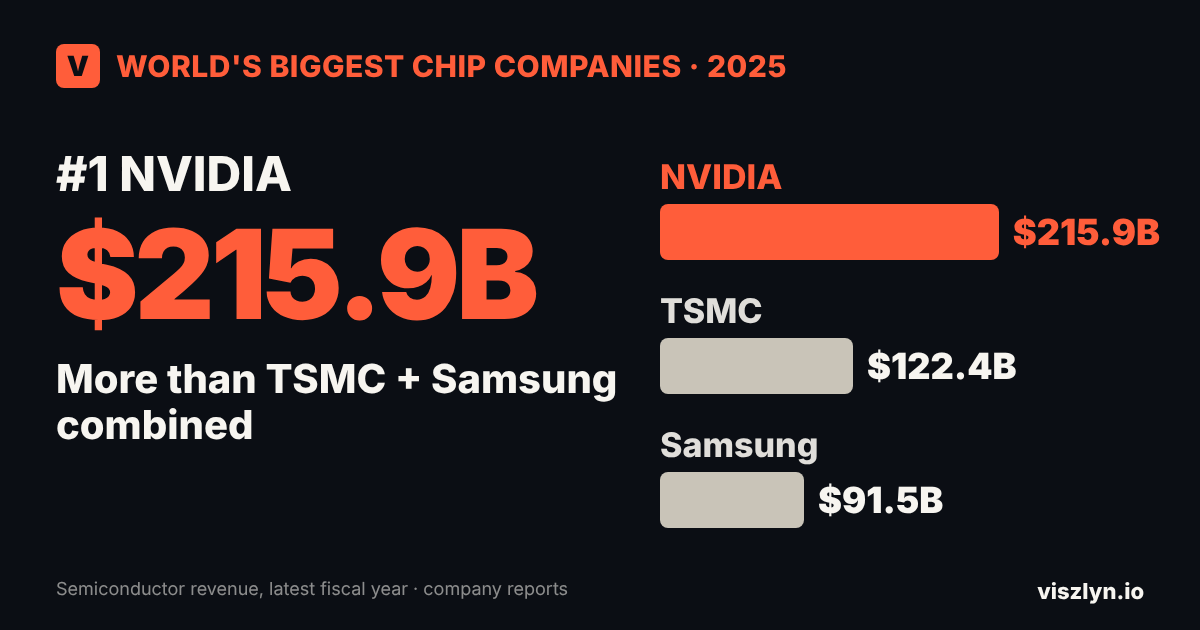
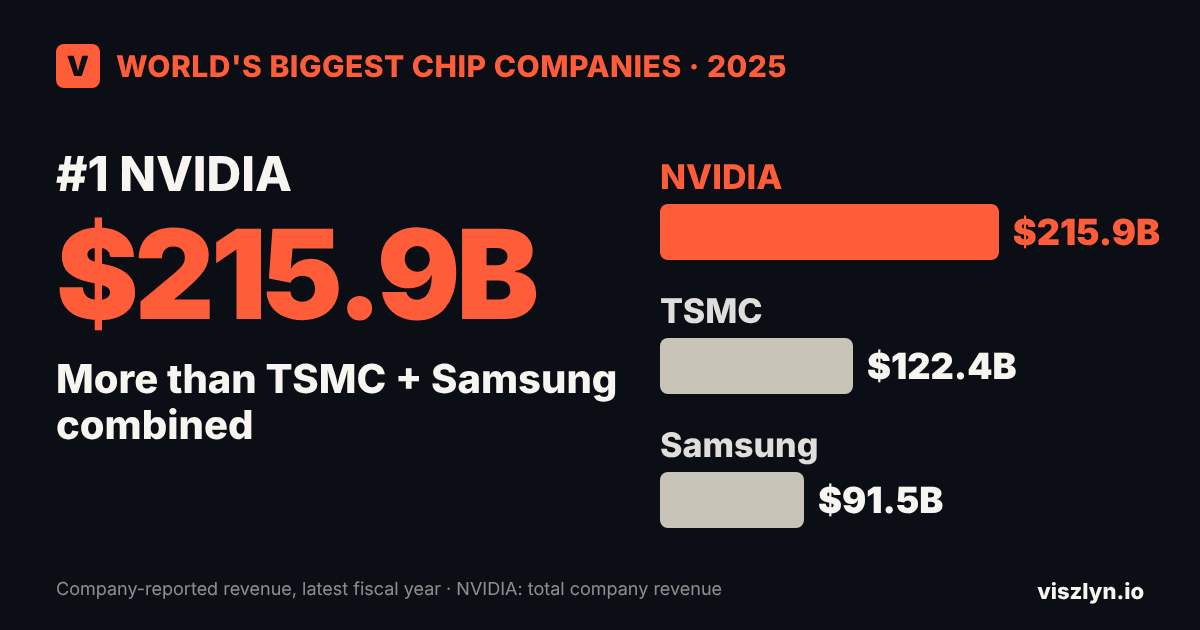
Chip companies: make reporting basis explicit (NVIDIA = total company revenue), apply review fixes
Claude-Session: https://claude.ai/code/session_01Lx7Mnbsr2j6Zre36XCS9Kp

Changed region(s): [[0.0617, 0.9048, 0.6167, 0.9651]]

diff --git a/src/data/rankings/biggest-chip-companies-2026.ts b/src/data/rankings/biggest-chip-companies-2026.ts
@@ -10,16 +10,16 @@ export const biggestChipCompanies2026: RankingArticle = {
     "NVIDIA made $215.9 billion in its latest fiscal year, far ahead of TSMC ($122.4B) and Samsung's chip division. See the 10 biggest semiconductor companies by revenue.",
   ogTitle: "The World's 10 Biggest Chip Companies by Revenue",
   ogDescription:
-    "NVIDIA's data center sales alone ($193.7B) are bigger than any other chip company's total revenue. The 10 biggest chipmakers, ranked from their own reports.",
+    "NVIDIA reported $215.9B in total revenue, and its data center sales alone ($193.7B) beat any other chip company's reported revenue. The 10 biggest chipmakers, from their own reports.",
   twitterTitle: "Ranked: The World's 10 Biggest Chip Companies",
   twitterDescription:
     "NVIDIA $215.9B, TSMC $122.4B, Samsung $91.5B. The 10 biggest semiconductor companies by revenue, from their latest annual results.",
 
   eyebrow: "Business",
   title: "The World's 10 Biggest Chip Companies by Revenue in 2025",
-  dek: "Ranked by semiconductor revenue in each company's latest fiscal year, from their own annual results. AI has put NVIDIA far ahead of every other chipmaker.",
-  publishedDate: "November 11, 2026",
-  lastUpdated: "November 11, 2026",
+  dek: "Ranked by the revenue each company reports for its chip business in its latest fiscal year. AI has put NVIDIA far ahead of every other chipmaker.",
+  publishedDate: "November 10, 2026",
+  lastUpdated: "November 10, 2026",
   dataPeriod: "Latest fiscal year ending in 2025 or January 2026",
   heroImage: {
     src: "/heroes/biggest-chip-companies-2026.png",
@@ -28,18 +28,18 @@ export const biggestChipCompanies2026: RankingArticle = {
   },
 
   quickAnswer:
-    "NVIDIA is the world's biggest chip company by revenue, with $215.9 billion in its fiscal year ended January 2026, up 65%. TSMC, which manufactures chips for other companies, is second with $122.4 billion, and Samsung's chip division is third with about $91.5 billion. NVIDIA's data center business alone, driven by AI, brought in $193.7 billion, more than any other chip company's total revenue.",
+    "NVIDIA is the world's biggest chip company by reported revenue, with $215.9 billion in its fiscal year ended January 2026, up 65%. That is NVIDIA's total company revenue, which includes complete systems and software as well as chips. TSMC, which manufactures chips for other companies, is second with $122.4 billion, and Samsung's chip division is third with about $91.5 billion. NVIDIA's data center business alone brought in $193.7 billion. These are company-reported figures, not a standardized measure of chip sales like Gartner's.",
   introParagraph:
-    "This ranking uses each company's own reported revenue from its chip business in its latest full fiscal year. For companies that also sell other things, only the semiconductor part is counted: Samsung's Device Solutions division, Intel's product segments, Qualcomm's chip business (QCT) and Broadcom's semiconductor segment. Companies end their fiscal years at different times, from August 2025 (Micron) to January 2026 (NVIDIA), so the periods don't line up exactly. TSMC is included even though it is a foundry, a contract manufacturer that makes chips designed by other companies, including NVIDIA, AMD and Apple.",
+    "This ranking uses the revenue each company reports for its chip business, or for the whole company where chips are its main business, in its latest full fiscal year. It is not a standardized market-share ranking: for NVIDIA, for example, the figure is total company revenue, which also includes complete data center systems and software. For companies that also sell other things, only the semiconductor part is counted: Samsung's Device Solutions division, Intel's product segments, Qualcomm's chip business (QCT) and Broadcom's semiconductor segment. Companies end their fiscal years at different times, from August 2025 (Micron) to January 2026 (NVIDIA), so the periods don't line up exactly. TSMC is included even though it is a foundry, a contract manufacturer that makes chips designed by other companies, including NVIDIA, AMD and Apple.",
   calloutBox: {
     label: "AI made NVIDIA the giant of the chip industry",
     body: "NVIDIA's revenue rose from $130.5 billion to $215.9 billion in one fiscal year. Its data center business, which sells the processors and networking used to train and run AI, accounted for $193.7 billion of that, up 68%. AI demand is also lifting memory makers: SK hynix's revenue rose about 47% and Micron's about 49%, helped by high-bandwidth memory (HBM) used in AI chips.",
   },
 
-  chartTitle: "Semiconductor revenue, latest fiscal year (US$ billions)",
+  chartTitle: "Company-reported chip business revenue, latest fiscal year (US$ billions)",
   chartSource: SRC,
   chartTapNote: "Tap any company to jump to its full breakdown below.",
-  entryValueLabel: "Semiconductor revenue:",
+  entryValueLabel: "Reported revenue:",
   chartItems: [
     { rank: 1, name: "NVIDIA", value: "$215.9B", raw: 215.9 },
     { rank: 2, name: "TSMC", value: "$122.4B", raw: 122.4 },
@@ -159,7 +159,7 @@ export const biggestChipCompanies2026: RankingArticle = {
       earnings: "$215.9 billion",
       category: "United States · Chip designer",
       revenueSources: "AI data center processors and networking, gaming GPUs, automotive",
-      blurb: "NVIDIA's revenue was $215,938 million in its fiscal year ended January 25, 2026, up 65% from $130,497 million the year before.",
+      blurb: "NVIDIA's revenue was $215,938 million in its fiscal year ended January 25, 2026, up 65% from $130,497 million the year before. This is NVIDIA's total reported company revenue, not a standalone chip-sales figure.",
       standoutFact: "Its data center business brought in $193.7 billion, about 90% of NVIDIA's total, and more than TSMC's entire revenue. NVIDIA's revenue is about 1.8 times TSMC's, and more than TSMC and Samsung's chip division combined ($213.9 billion).",
       sourceTag: "NVIDIA fiscal 2026 results",
       wikipediaUrl: "https://en.wikipedia.org/wiki/Nvidia",
@@ -176,11 +176,11 @@ export const biggestChipCompanies2026: RankingArticle = {
 
   sourceNote: {
     dataPeriod: "Each company's latest full fiscal year ending between August 2025 and January 2026",
-    lastUpdated: "November 11, 2026",
+    lastUpdated: "November 10, 2026",
     sources:
       "Company annual results and filings: NVIDIA (fiscal 2026, ended January 25, 2026), TSMC (4Q25 Management Report), Samsung Electronics (FY2025 results, Device Solutions division), SK hynix (FY2025 results), Intel, Qualcomm, Micron, Broadcom, AMD and Texas Instruments (earnings releases and SEC filings), MediaTek (2025 consolidated financial statements). Comparison: Gartner, \"Gartner Says Worldwide Semiconductor Revenue Grew 21% in 2025\" (January 12, 2026). Exchange rate: Federal Reserve H.10.",
     methodology:
-      "Companies are ranked by revenue from semiconductors in their latest full fiscal year, as they report it. Where a company has other businesses, only its chip segment is counted: Samsung's Device Solutions division (which includes Samsung Foundry), Intel's Client Computing and Data Center and AI segments (excluding Intel Foundry), Qualcomm's QCT segment (excluding licensing) and Broadcom's semiconductor solutions segment (excluding software). NVIDIA, AMD, Micron, SK hynix, MediaTek and TSMC are counted by total revenue. Fiscal years differ: NVIDIA's ended January 25, 2026, Broadcom's in November 2025, Qualcomm's in September 2025 and Micron's in August 2025; the rest follow the calendar year. TSMC and MediaTek US dollar figures are as the companies state them. Samsung and SK hynix figures are converted by Viszlyn at the 2025 average rate of ₩1,421.40 per US dollar (Federal Reserve H.10). Percentage changes are calculated from the reported figures in each company's own currency. This ranking includes TSMC, a foundry; without it, Texas Instruments ($17.7 billion) would be 10th. Gartner's calendar-year ranking counts only chip sales and excludes foundries, so its figures differ (for example, NVIDIA $125.7 billion); Gartner also includes Apple ($24.6 billion, its estimate of Apple's in-house chips), which reports no chip revenue of its own.",
+      "Companies are ranked by the revenue they report for their chip business in their latest full fiscal year. These are company-reported figures, not a standardized measure of semiconductor sales, so they are not directly comparable to market-share estimates such as Gartner's. NVIDIA's figure is its total company revenue, which includes complete data center systems and software as well as chips. Where a company has other businesses, only its chip segment is counted: Samsung's Device Solutions division (which includes Samsung Foundry), Intel's Client Computing and Data Center and AI segments (excluding Intel Foundry), Qualcomm's QCT segment (excluding licensing) and Broadcom's semiconductor solutions segment (excluding software). NVIDIA, AMD, Micron, SK hynix, MediaTek and TSMC are counted by total revenue. Fiscal years differ: NVIDIA's ended January 25, 2026, Broadcom's in November 2025, Qualcomm's in September 2025 and Micron's in August 2025; the rest follow the calendar year. TSMC and MediaTek US dollar figures are as the companies state them. Samsung and SK hynix figures are converted by Viszlyn at the 2025 average rate of ₩1,421.40 per US dollar (Federal Reserve H.10). Percentage changes are calculated from the reported figures in each company's own currency. This ranking includes TSMC, a foundry; without it, Texas Instruments ($17.7 billion) would be 10th. Gartner's calendar-year ranking counts only chip sales and excludes foundries, so its figures differ (for example, NVIDIA $125.7 billion); Gartner also includes Apple ($24.6 billion, its estimate of Apple's in-house chips), which reports no chip revenue of its own.",
     sourceLinks: [
       { label: "NVIDIA: Financial Results for Fourth Quarter and Fiscal 2026", href: "https://investor.nvidia.com/news/press-release-details/2026/NVIDIA-Announces-Financial-Results-for-Fourth-Quarter-and-Fiscal-2026" },
       { label: "TSMC 4Q25 Management Report (PDF)", href: "https://investor.tsmc.com/english/encrypt/files/encrypt_file/reports/2026-01/00fe50f72b38d74e6b9b066398f020f337cd4e9d/4Q25%20Management%20Report.pdf" },
@@ -201,7 +201,7 @@ export const biggestChipCompanies2026: RankingArticle = {
     {
       question: "Is TSMC bigger than NVIDIA?",
       answer:
-        "Not by revenue. TSMC's 2025 revenue was $122.4 billion, compared with NVIDIA's $215.9 billion. But TSMC manufactures most of NVIDIA's chips, so the two companies depend on each other.",
+        "Not by revenue. TSMC's 2025 revenue was $122.4 billion, compared with NVIDIA's $215.9 billion. TSMC manufactures many of the advanced chips NVIDIA designs, making it an important supplier to NVIDIA.",
     },
     {
       question: "Why isn't Apple on this list?",
@@ -216,7 +216,7 @@ export const biggestChipCompanies2026: RankingArticle = {
     {
       question: "Why do these numbers differ from Gartner's ranking?",
       answer:
-        "Gartner measures chip sales by calendar year and counts only the value of chips sold, excluding foundries like TSMC. This ranking uses each company's own reported revenue for its latest fiscal year, which for NVIDIA also includes complete systems and software.",
+        "Gartner's calendar-year semiconductor-sales ranking uses a different methodology: it estimates the value of chips each vendor sold, excludes foundries such as TSMC, and estimates chip value for companies such as Apple that don't report chip revenue separately. It puts NVIDIA at $125.7 billion for 2025. This ranking instead uses each company's own reported revenue for its latest fiscal year, which for NVIDIA is total company revenue, including complete systems and software.",
     },
   ],
 
